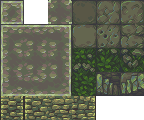
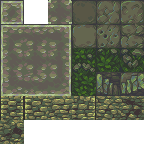
Place game elements in correct layer order

diff --git a/Assets/Scripts/TileMap/TileMapper.cs b/Assets/Scripts/TileMap/TileMapper.cs
@@ -1,15 +1,18 @@
 using System.Collections.Generic;
+using UnityEngine;
 
 public static class TileMapper
 {
 	public class TileLayerInfo
 	{
-		public int Layer;
+		public string SortingLayer;
+		public Vector2 OffsetUnits;
 		public Tile Tile;
 
-		public TileLayerInfo(int layer, Tile tile)
+		public TileLayerInfo(string sortingLayer, Vector2 offsetUnits, Tile tile)
 		{
-			Layer = layer;
+			SortingLayer = sortingLayer;
+			OffsetUnits = offsetUnits;
 			Tile = tile;
 		}
 	}
@@ -26,6 +29,31 @@ public static class TileMapper
 		new int2(-1, 0)
 	};
 
+	private static readonly uint[] FloorTiles =		new uint[]	{ 3, 4, 5,  9, 11, 15, 16, 17, 21 };
+	private static readonly int[] FloorTilesWeight = new int[]	{ 0, 2, 3, 20, 1, 0, 0, 0, 0 };
+	private static int FloorTilesTotalWeight;
+
+	private static readonly uint[] WallTiles = new uint[] { 26, 28, 29, 30 };
+	private static readonly int[] WallTilesWeight = new int[] { 20, 5, 1, 2 };
+	private static int WallTilesTotalWeight;
+
+	static TileMapper()
+	{
+		FloorTilesTotalWeight = 0;
+
+		for (int i = 0; i < FloorTilesWeight.Length; i++)
+		{
+			FloorTilesTotalWeight += FloorTilesWeight[i];
+		}
+
+		WallTilesTotalWeight = 0;
+
+		for (int i = 0; i < WallTilesWeight.Length; i++)
+		{
+			WallTilesTotalWeight += WallTilesWeight[i];
+		}
+	}
+
 	public static List<TileLayerInfo> GetTileLayers(TileMap<Cell> map, int2 position, TileSet tileSet)
 	{
 		List<TileLayerInfo> result = null;
@@ -41,12 +69,12 @@ public static class TileMapper
 				case TileType.Space: break;
 				case TileType.Floor:
 					result = new List<TileLayerInfo>();
-					result.Add(new TileLayerInfo(0, tileSet.GetTile(9)));
+					result.Add(new TileLayerInfo("Bottom", Vector2.zero, tileSet.GetTile(GetRandomFloorTile())));
 				break;
 				case TileType.Wall:
 					result = new List<TileLayerInfo>();
 					AddLowerWallTile(result, map, position, tileSet);
-					result.Add(new TileLayerInfo(1, tileSet.GetTile("wall", GetNeighboursMask(map, position, TileType.Wall))));
+					result.Add(new TileLayerInfo("Top", Vector2.up, tileSet.GetTile("wall", GetNeighboursMask(map, position, TileType.Wall))));
 				break;
 			}
 		}
@@ -107,14 +135,46 @@ public static class TileMapper
 			{
 				case ThinWall: tileIndex = 24; break;
 				case LeftWall: tileIndex = 25; break;
-				case CenterWall: tileIndex = 26; break;
+				case CenterWall: tileIndex = GetRandomWallTile(); break;
 				case RightWall: tileIndex = 27; break;
 			}
 		}
 
 		if (tileIndex != uint.MaxValue)
 		{
-			result.Add(new TileLayerInfo(0, tileSet.GetTile(tileIndex)));
+			result.Add(new TileLayerInfo("Bottom", Vector2.zero, tileSet.GetTile(tileIndex)));
 		}
+	}
+
+	private static uint GetRandomFloorTile()
+	{
+		return PickRandomValue(FloorTilesTotalWeight, FloorTilesWeight, FloorTiles);
+	}
+
+	private static uint GetRandomWallTile()
+	{
+		return PickRandomValue(WallTilesTotalWeight, WallTilesWeight, WallTiles);
+	}
+
+	private static uint PickRandomValue(int totalWeight, int[] weightArray, uint[] valueArray)
+	{
+		uint result = uint.MaxValue;
+		int cumulativeWeight = 0;
+		int randomNumber = Random.Range(0, totalWeight);
+		int i = 0;
+
+		while (result == uint.MaxValue && i < weightArray.Length)
+		{
+			cumulativeWeight += weightArray[i];
+
+			if (cumulativeWeight > randomNumber)
+			{
+				result = valueArray[i];
+			}
+
+			i++;
+		}
+
+		return result;
 	}
 }

diff --git a/Assets/Scripts/TileMap/TileMapRenderer/Orthogonal/OrthogonalChunkRenderer.cs b/Assets/Scripts/TileMap/TileMapRenderer/Orthogonal/OrthogonalChunkRenderer.cs
@@ -11,11 +11,11 @@ namespace InstaDungeon.TileMap
 		private TileMap<Cell> map;
 		private float tileHeight;
 		private float tileWidth;
-		private Dictionary<int, OrthogonalChunkRendererLayer> layers;
+		private Dictionary<string, OrthogonalChunkRendererLayer> layers;
 
 		private void Awake()
 		{
-			layers = new Dictionary<int, OrthogonalChunkRendererLayer>();
+			layers = new Dictionary<string, OrthogonalChunkRendererLayer>();
 		}
 
 		public void Setup(OrthogonalTileMapRenderer renderer, TileSet tileSet, Material material, TileMap<Cell> map)
@@ -43,20 +43,19 @@ namespace InstaDungeon.TileMap
 				{
 					layerInfo = tileLayers[i];
 
-					if (!layers.TryGetValue(layerInfo.Layer, out renderer))
+					if (!layers.TryGetValue(layerInfo.SortingLayer, out renderer))
 					{
-						Vector2 layerOffset = Vector2.up * tileHeight * layerInfo.Layer;
+						Vector2 layerOffset = new Vector2(layerInfo.OffsetUnits.x * tileWidth, layerInfo.OffsetUnits.y * tileWidth);
 
 						renderer = tileMapRenderer.SpawnRendererLayer();
 						renderer.transform.SetParent(transform);
-						renderer.name = string.Format("Layer {0}", layerInfo.Layer);
-						renderer.BeginBuilding(map, tileSet.texture, material, tileWidth, tileHeight, layerOffset);
+						renderer.name = string.Format("Layer {0}", layerInfo.SortingLayer);
+						renderer.BeginBuilding(map, tileSet.texture, material, tileWidth, tileHeight, layerOffset, layerInfo.SortingLayer);
 
 						Vector3 newLayerPosition = renderer.transform.localPosition;
-						newLayerPosition.z = -1 * layerInfo.Layer;
 						renderer.transform.localPosition = newLayerPosition;
 
-						layers.Add(layerInfo.Layer, renderer);
+						layers.Add(layerInfo.SortingLayer, renderer);
 					}
 
 					renderer.AddTile(tilePosition, layerInfo.Tile);

diff --git a/Assets/Scripts/TileMap/TileMapRenderer/Orthogonal/OrthogonalChunkRendererLayer.cs b/Assets/Scripts/TileMap/TileMapRenderer/Orthogonal/OrthogonalChunkRendererLayer.cs
@@ -54,7 +54,7 @@ namespace InstaDungeon.TileMap
 			triangles = new List<int>();
 		}
 
-		public void BeginBuilding(TileMap<Cell> map, Texture tilesetTexture, Material material, float tileWidth, float tileHeight, Vector2 localOffset)
+		public void BeginBuilding(TileMap<Cell> map, Texture tilesetTexture, Material material, float tileWidth, float tileHeight, Vector2 localOffset, string sortingLayer)
 		{
 			this.map = map;
 			this.tilesetTexture = tilesetTexture;
@@ -71,6 +71,8 @@ namespace InstaDungeon.TileMap
 			this.tileWidth = tileWidth;
 			this.tileHeight = tileHeight;
 			this.localOffset = localOffset;
+
+			meshRenderer.sortingLayerName = sortingLayer;
 		}
 
 		public void AddTile(int2 tilePosition, Tile tile)

diff --git a/Assets/Scripts/TileMap/TileMapRenderer/IChunkRendererLayer.cs b/Assets/Scripts/TileMap/TileMapRenderer/IChunkRendererLayer.cs
@@ -2,7 +2,7 @@
 
 public interface IChunkRendererLayer 
 {
-	void BeginBuilding(TileMap<Cell> map, Texture tilesetTexture, Material material, float tileWidth, float tileHeight, Vector2 localOffset);
+	void BeginBuilding(TileMap<Cell> map, Texture tilesetTexture, Material material, float tileWidth, float tileHeight, Vector2 localOffset, string sortingLayer);
 	void AddTile(int2 tilePosition, Tile tile);
 	void Commit();
 }
